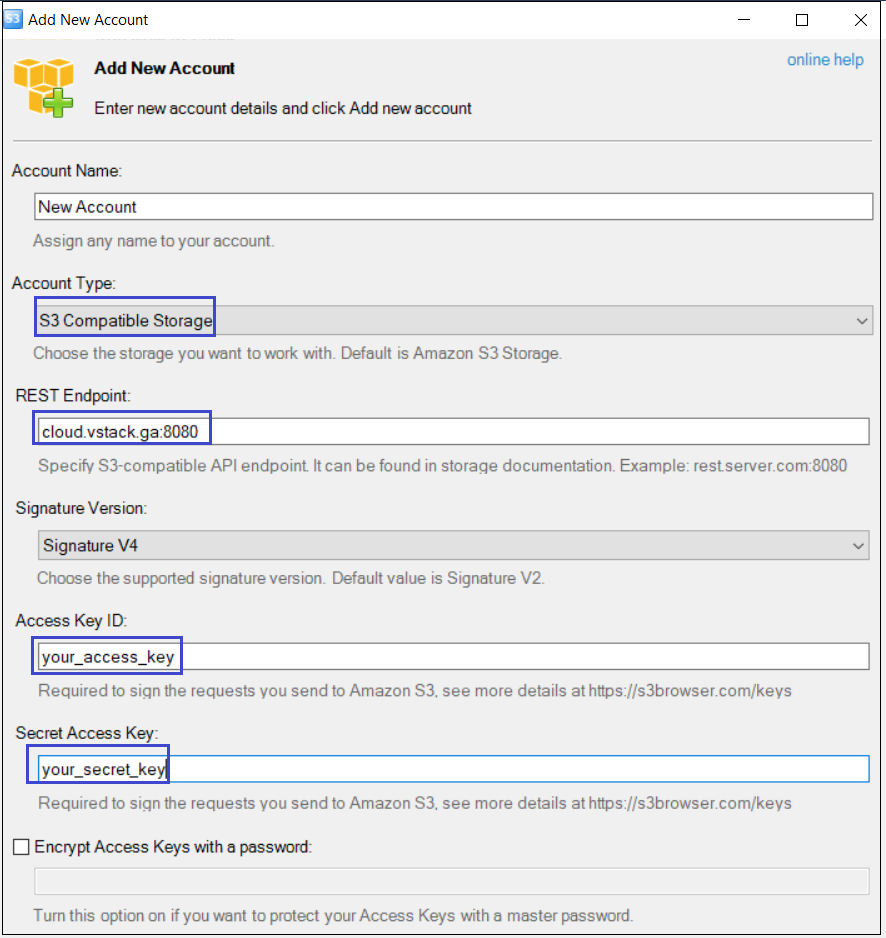
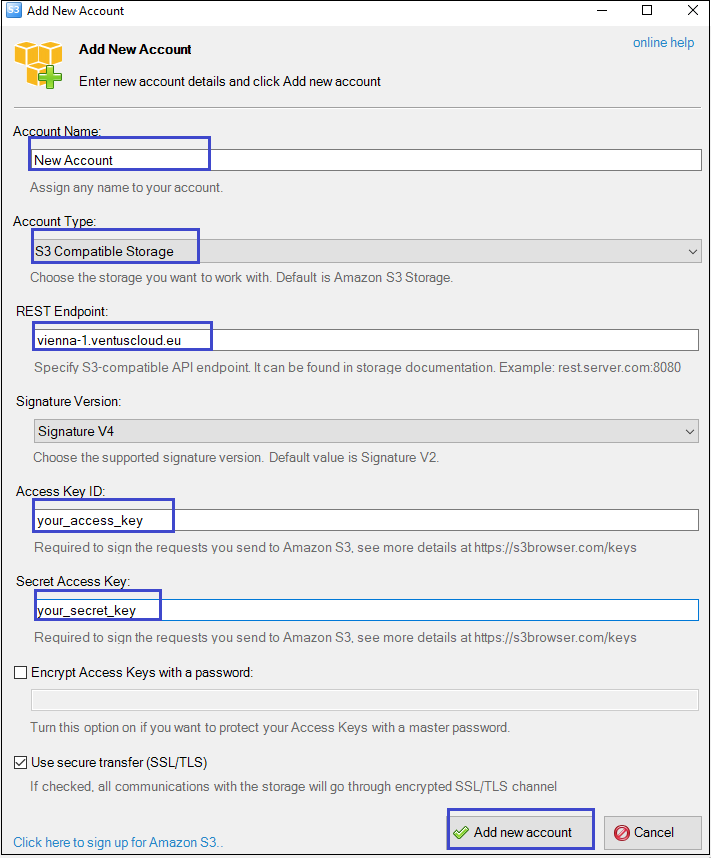
fixed old url in article about object storage

Changed region(s): [[0.0, 0.0, 1.0, 1.0], [0.8354, 0.0, 0.8664, 0.0303]]

diff --git a/_docs/tutorials/object-storage.md b/_docs/tutorials/object-storage.md
@@ -134,7 +134,7 @@ secret_key = 'your_secret_key'
 conn = boto.connect_s3(
         aws_access_key_id = access_key,
         aws_secret_access_key = secret_key,
-        host = 'cloud.vstack.ga',
+        host = 'vienna-1.ventuscloud.eu',
         port = 8080,
         
         calling_format = boto.s3.connection.OrdinaryCallingFormat(),
@@ -143,10 +143,10 @@ conn = boto.connect_s3(
 bucket = conn.create_bucket('my_new_bucket')
 
 for bucket in conn.get_all_buckets():
-        print "{name}\t{created}".format(
+        print ("{name}\t{created}".format(
                 name = bucket.name,
                 created = bucket.creation_date,
-        )
+        ))
 
 ```
 Remember to replace the ‘your_access_key’ and 'your_secret_key' part with your credential information.
